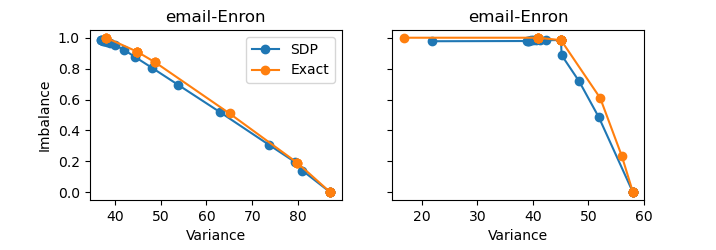
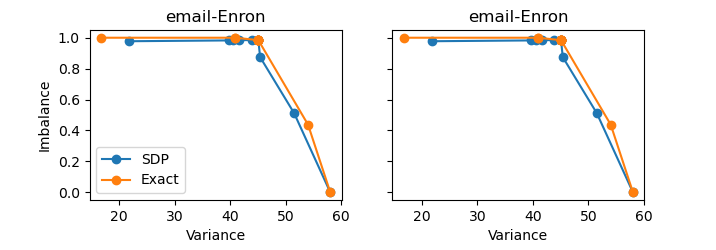
Swapped to only 11 alphas for multiobjective

diff --git a/plots/plots.py b/plots/plots.py
@@ -67,7 +67,7 @@ if __name__ == '__main__':
     plt.savefig("plots/karloff_layers_max.pdf")
 
 
-    classicalpareto = pd.read_csv("bench/logs/2026-04-23_18-48-26_6_3_1_3.csv") # "bench/logs/2026-04-21_13-09-40_email-Enron_5.csv")
+    classicalpareto = pd.read_csv("bench/logs/2026-04-23_19-36-37_email-Enron_05.csv") # "bench/logs/2026-04-21_13-09-40_email-Enron_5.csv")
     pareto = classicalpareto
 
     fig, (ax1, ax2) = plt.subplots(figsize=rec, 
@@ -84,7 +84,7 @@ if __name__ == '__main__':
     ax1.set_ylabel("Imbalance")
     ax1.legend()
 
-    classicalpareto = pd.read_csv("bench/logs/2026-04-21_13-15-17_email-Enron_5.csv")
+    classicalpareto = pd.read_csv("bench/logs/2026-04-23_19-39-46_email-Enron_05.csv")
     pareto = classicalpareto
 
 
